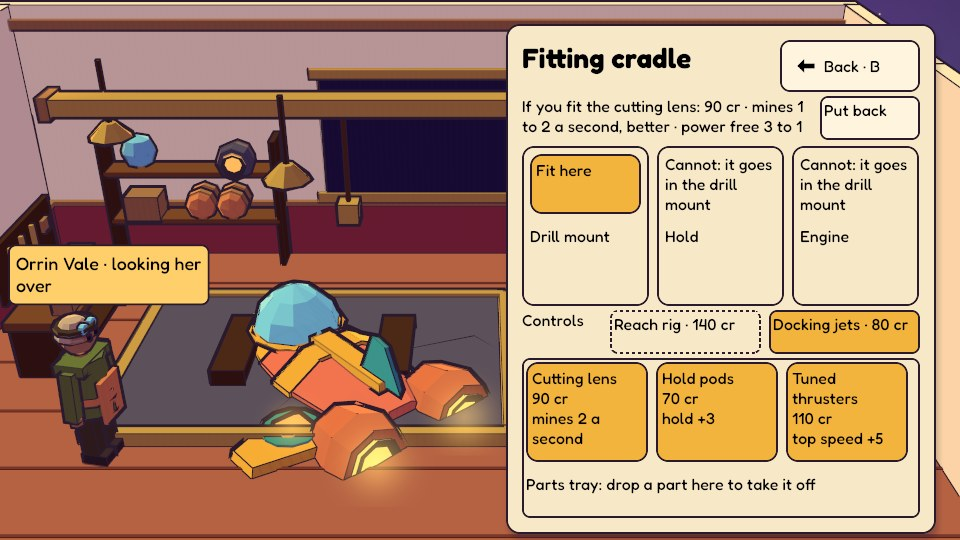
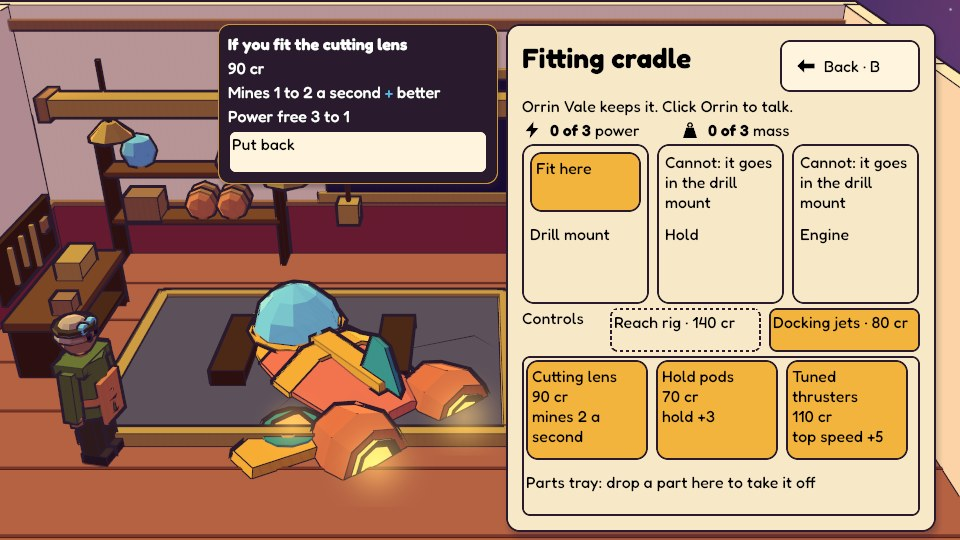
Core places: the click preview shows in full, and room activity stays at its station
The click preview moves out of the cradle panel into a box beside it, one line
per change with a + better or - worse mark and Put back, so every changed number
shows at 960x540 and 1024x576 and the panel keeps its keeper line and budgets.

The ship log resolves the containing station for entries made in a room and for
an unanswered offer's speaker, so a station visit stays one summary and Ines's
offer is pinned under Lantern Dock.

diff --git a/game/modules/core/README.md b/game/modules/core/README.md
@@ -481,10 +481,13 @@ yours is bought first. Drag a fitted part onto the tray to take it off into the
 locker; fitting it again costs nothing. Clicking works the same: `Choose` where a
 part would go from (its empty socket, or the tray's `On the ship` for a fitted
 part), and its socket offers `Fit here` (or the tray `Take it off here`) while every
-other socket says `Cannot:` with the reason, and the keeper's line and the budgets
-give way to what it would do (`If you fit the cutting lens: 90 cr · mines 1 to 2 a
-second, better · power free 3 to 1`, with `Put back`) before anything changes. The
-click way adds no height: the cradle's panel still fits a 960x540 window. Picking a part up tints every target at
+other socket says `Cannot:` with the reason, and a dark box beside the panel, over
+the room's upper floor, says what it would do before anything changes: `If you fit
+the cutting lens`, then one line per change (`90 cr`, `Mines 1 to 2 a second + better`,
+`Power free 3 to 1`; a blue + for better, a vermilion - for worse), then `Put back`.
+The panel keeps its keeper's line and budgets, so the click way adds no height and
+the cradle still fits a 960x540 window; the longest preview (five changes) ends above
+the ship on its cradle there. Picking a part up tints every target at
 once, sky blue with `Drop here` or vermilion with `Cannot drop:` and the
 reason in full: the wrong socket (`it goes in the drill mount`), power (`it needs
 2 power; 1 is free`), credits (`it costs 90 cr; you have 40`), or cargo that
@@ -895,7 +898,7 @@ The fitting loop is the thinnest one too: one fitter, three parts on one rack, o
 part per socket and no hulls, blueprints or parts ordered from friends. The fit is
 instant, with no crane or fitting moment. While a part is held, a socket that will take it says `Drop here` with the part's
 cost and effect, but not the whole change (the mass cost of the pods); only the
-click way previews that, in place of the budgets. The cradle's sign
+click way previews that, in its box beside the panel. The cradle's sign
 sits low beside it, on the rim side, so it clears the dockmaster's and Orrin's
 name signs at both window sizes.
 
